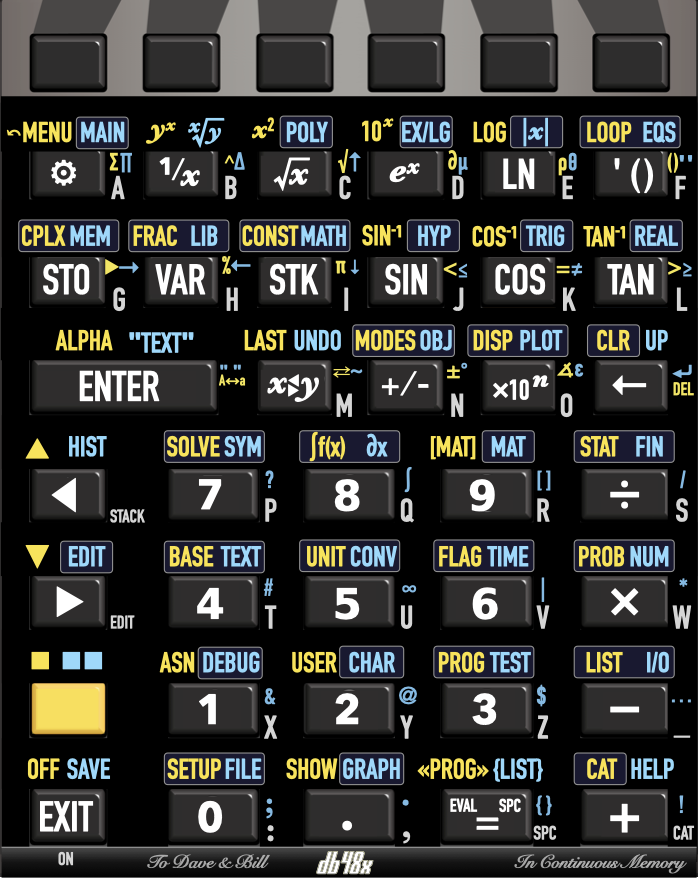
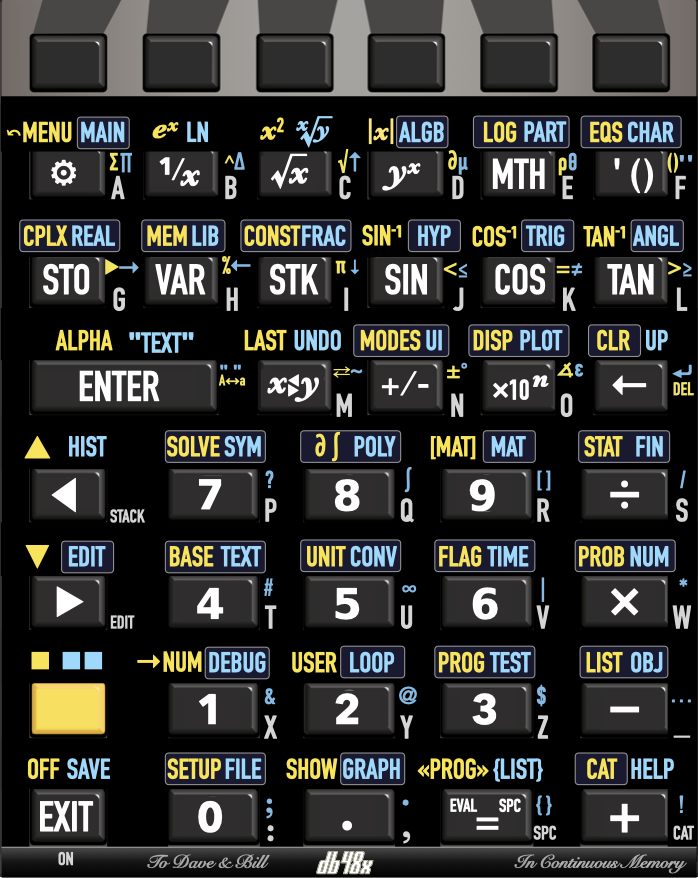
Release 0.8.4: Fixups for the WASM build

diff --git a/src/user_interface.cc b/src/user_interface.cc
@@ -5039,8 +5039,8 @@ static const byte defaultUnshiftedCommand[2*user_interface::NUM_KEYS] =
     OP2BYTES(KEY_SIGMA, menu::ID_ToolsMenu),
     OP2BYTES(KEY_INV,   function::ID_inv),
     OP2BYTES(KEY_SQRT,  function::ID_sqrt),
-    OP2BYTES(KEY_LOG,   function::ID_exp),
-    OP2BYTES(KEY_LN,    function::ID_log),
+    OP2BYTES(KEY_LOG,   function::ID_pow),
+    OP2BYTES(KEY_LN,    function::ID_MathMenu),
     OP2BYTES(KEY_XEQ,   0),
     OP2BYTES(KEY_STO,   command::ID_Sto),
     OP2BYTES(KEY_RCL,   command::ID_ToggleCustomMenu),
@@ -5094,13 +5094,13 @@ static const byte defaultShiftedCommand[2*user_interface::NUM_KEYS] =
 //   All the default assigned commands fit in one or two bytes
 {
     OP2BYTES(KEY_SIGMA, menu::ID_LastMenu),
-    OP2BYTES(KEY_INV,   arithmetic::ID_pow),
+    OP2BYTES(KEY_INV,   arithmetic::ID_exp),
     OP2BYTES(KEY_SQRT,  arithmetic::ID_sq),
-    OP2BYTES(KEY_LOG,   function::ID_exp10),
-    OP2BYTES(KEY_LN,    function::ID_log10),
-    OP2BYTES(KEY_XEQ,   menu::ID_LoopsMenu),
+    OP2BYTES(KEY_LOG,   function::ID_abs),
+    OP2BYTES(KEY_LN,    function::ID_ExpLogMenu),
+    OP2BYTES(KEY_XEQ,   menu::ID_EquationsMenu),
     OP2BYTES(KEY_STO,   menu::ID_ComplexMenu),
-    OP2BYTES(KEY_RCL,   menu::ID_FractionsMenu),
+    OP2BYTES(KEY_RCL,   menu::ID_MemoryMenu),
     OP2BYTES(KEY_RDN,   menu::ID_ConstantsMenu),
     OP2BYTES(KEY_SIN,   function::ID_asin),
     OP2BYTES(KEY_COS,   function::ID_acos),
@@ -5151,25 +5151,25 @@ static const byte defaultSecondShiftedCommand[2*user_interface::NUM_KEYS] =
 //   All the default assigned commands fit in one or two bytes
 {
     OP2BYTES(KEY_SIGMA, menu::ID_MainMenu),
-    OP2BYTES(KEY_INV,   command::ID_xroot),
-    OP2BYTES(KEY_SQRT,  menu::ID_PolynomialsMenu),
-    OP2BYTES(KEY_LOG,   menu::ID_ExpLogMenu),
+    OP2BYTES(KEY_INV,   command::ID_log),
+    OP2BYTES(KEY_SQRT,  menu::ID_xroot),
+    OP2BYTES(KEY_LOG,   menu::ID_AlgebraMenu),
     OP2BYTES(KEY_LN,    menu::ID_PartsMenu),
-    OP2BYTES(KEY_XEQ,   menu::ID_EquationsMenu),
-    OP2BYTES(KEY_STO,   menu::ID_MemoryMenu),
+    OP2BYTES(KEY_XEQ,   menu::ID_CharactersMenu),
+    OP2BYTES(KEY_STO,   menu::ID_RealMenu),
     OP2BYTES(KEY_RCL,   menu::ID_Library),
-    OP2BYTES(KEY_RDN,   menu::ID_MathMenu),
+    OP2BYTES(KEY_RDN,   menu::ID_FractionsMenu),
     OP2BYTES(KEY_SIN,   menu::ID_HyperbolicMenu),
     OP2BYTES(KEY_COS,   menu::ID_CircularMenu),
-    OP2BYTES(KEY_TAN,   menu::ID_RealMenu),
+    OP2BYTES(KEY_TAN,   menu::ID_AnglesMenu),
     OP2BYTES(KEY_ENTER, 0),     // Text
     OP2BYTES(KEY_SWAP,  function::ID_Undo),
-    OP2BYTES(KEY_CHS,   menu::ID_ObjectMenu),
+    OP2BYTES(KEY_CHS,   menu::ID_UserInterfaceModesMenu),
     OP2BYTES(KEY_E,     menu::ID_PlotMenu),
     OP2BYTES(KEY_BSP,   function::ID_UpDir),
     OP2BYTES(KEY_UP,    0),
     OP2BYTES(KEY_7,     menu::ID_SymbolicMenu),
-    OP2BYTES(KEY_8,     menu::ID_IntegrationMenu),
+    OP2BYTES(KEY_8,     menu::ID_PolynomialsMenu),
     OP2BYTES(KEY_9,     menu::ID_MatrixMenu),
     OP2BYTES(KEY_DIV,   menu::ID_FinanceSolverMenu),
     OP2BYTES(KEY_DOWN,  menu::ID_EditMenu),
@@ -5179,7 +5179,7 @@ static const byte defaultSecondShiftedCommand[2*user_interface::NUM_KEYS] =
     OP2BYTES(KEY_MUL,   menu::ID_NumbersMenu),
     OP2BYTES(KEY_SHIFT, 0),
     OP2BYTES(KEY_1,     menu::ID_DebugMenu),
-    OP2BYTES(KEY_2,     menu::ID_CharactersMenu),
+    OP2BYTES(KEY_2,     menu::ID_LoopsMenu),
     OP2BYTES(KEY_3,     menu::ID_TestsMenu),
     OP2BYTES(KEY_SUB,   menu::ID_IOMenu),
     OP2BYTES(KEY_EXIT,  command::ID_SaveState),

diff --git a/sim/sim-window.cpp b/sim/sim-window.cpp
@@ -1316,4 +1316,11 @@ int ui_wrap_io(file_sel_fn callback, const char *path, void *data, bool)
     return callback(path, name, data);
 }
 
+void ui_load_keymap(cstring name)
+// ----------------------------------------------------------------------------
+//   Change the visible keyboard layout
+// ----------------------------------------------------------------------------
+{
+}
+
 #endif // WASM
